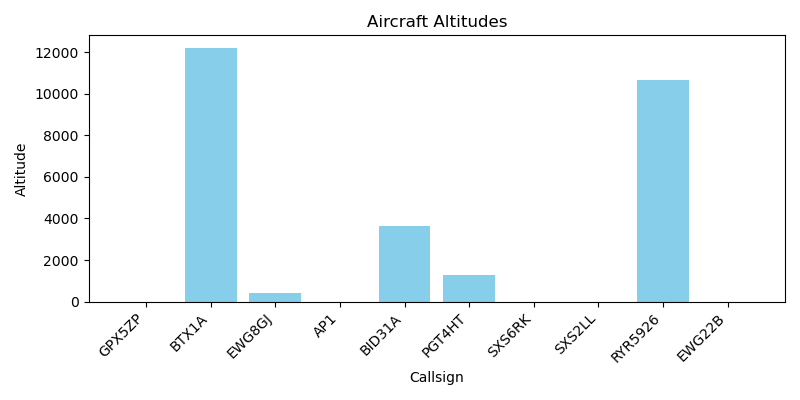
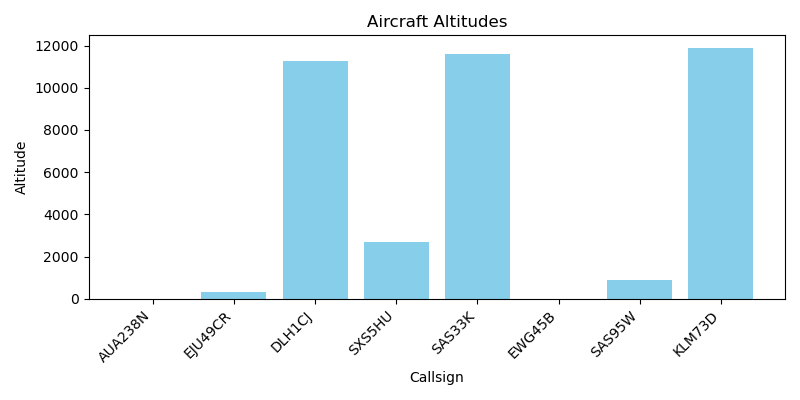
added the bookmark feuture to the app, allowing users to save airports of interest and view them in a dedicated section. This involved updating the database schema to include a timestamp for when each airport was saved, as well as creating new routes and templates to manage and display the saved air

diff --git a/aircraft_explorer/templates/control.html b/aircraft_explorer/templates/control.html
@@ -1,0 +1,133 @@
+<!DOCTYPE html>
+<html>
+<head>
+    <title>Control Panel - Aircraft Explorer</title>
+    <link href="https://cdn.jsdelivr.net/npm/bootstrap@5.3.0/dist/css/bootstrap.min.css" rel="stylesheet">
+    <link rel="stylesheet" href="/static/style.css">
+    <meta name="viewport" content="width=device-width, initial-scale=1.0">
+</head>
+<body class="container mt-4">
+
+    <div class="d-flex justify-content-between align-items-center mb-4">
+        <h1>🎛 Control Panel</h1>
+        <div>
+            <a href="/" class="btn btn-primary">New Search</a>
+            <a href="/history" class="btn btn-outline-secondary ms-2">History</a>
+        </div>
+    </div>
+
+    <!-- ========= BOOKMARKED AIRPORTS ========= -->
+    <div class="card mb-4">
+        <div class="card-header"> Bookmarked Airports</div>
+        <div class="card-body">
+            {% if bookmarked %}
+                <div class="table-responsive">
+                    <table class="table table-sm table-striped">
+                        <thead>
+                            <tr>
+                                <th>Airport Name</th>
+                                <th>ICAO</th>
+                                <th>Latitude</th>
+                                <th>Longitude</th>
+                                <th>Saved Time</th>
+                                <th>Action</th>
+                            </tr>
+                        </thead>
+                        <tbody>
+                            {% for apt in bookmarked %}
+                            <tr>
+                                <td>{{ apt.airport_name }}</td>
+                                <td>{{ apt.icao }}</td>
+                                <td>{{ apt.latitude }}</td>
+                                <td>{{ apt.longitude }}</td>
+                                <td>{{ apt.saved_time[:19] if apt.saved_time else 'N/A' }}</td>
+                                <td>
+                                    <a href="/delete_bookmark/{{ apt.id }}" class="btn btn-danger btn-sm" onclick="return confirm('Remove this bookmark?')">Delete</a>
+                                </td>
+                            </tr>
+                            {% endfor %}
+                        </tbody>
+                    </table>
+                </div>
+            {% else %}
+                <p class="text-muted mb-0">No bookmarked airports yet. Search for a city and click "Bookmark" next to an airport.</p>
+            {% endif %}
+        </div>
+    </div>
+
+    <!-- ========= RECENT AIRCRAFT SNAPSHOTS ========= -->
+    <div class="card mb-4">
+        <div class="card-header"> Recent Aircraft Snapshots</div>
+        <div class="card-body">
+            {% if snapshots %}
+                <div class="table-responsive">
+                    <table class="table table-sm table-striped">
+                        <thead>
+                            <tr>
+                                <th>Timestamp</th>
+                                <th>Callsign</th>
+                                <th>Altitude (m)</th>
+                                <th>Velocity (m/s)</th>
+                            </tr>
+                        </thead>
+                        <tbody>
+                            {% for snap in snapshots[:20] %}
+                            <tr>
+                                <td>{{ snap.timestamp[:19] if snap.timestamp else 'N/A' }}</td>
+                                <td>{{ snap.callsign }}</td>
+                                <td>{{ snap.altitude if snap.altitude else 'N/A' }}</td>
+                                <td>{{ snap.velocity if snap.velocity else 'N/A' }}</td>
+                            </tr>
+                            {% endfor %}
+                        </tbody>
+                    </table>
+                    {% if snapshots|length > 20 %}
+                        <p class="text-muted small">Showing 20 of {{ snapshots|length }} snapshots.</p>
+                    {% endif %}
+                </div>
+            {% else %}
+                <p class="text-muted mb-0">No snapshots yet. Perform a search to capture live aircraft data.</p>
+            {% endif %}
+        </div>
+    </div>
+
+    <!-- ========= TRAFFIC COMPARISON ========= -->
+    <div class="card mb-4">
+        <div class="card-header"> Compare Traffic (Current vs Past)</div>
+        <div class="card-body">
+            <form method="POST" action="/compare">
+                <div class="mb-3">
+                    <label for="previous_timestamp" class="form-label">Select a previous snapshot timestamp:</label>
+                    <select name="previous_timestamp" id="previous_timestamp" class="form-select" required>
+                        <option value="" disabled selected>-- Choose a timestamp --</option>
+                        {% for ts in timestamps %}
+                        <option value="{{ ts }}">{{ ts }}</option>
+                        {% endfor %}
+                    </select>
+                </div>
+                <button type="submit" class="btn btn-warning">Compare with current traffic</button>
+            </form>
+
+            {% if comparison %}
+                <div class="alert alert-info mt-4">
+                    <h5 class="alert-heading">Comparison Results</h5>
+                    <ul class="mb-0">
+                        <li><strong>Current aircraft count:</strong> {{ comparison.current_count }}</li>
+                        <li><strong>Previous count ({{ comparison.previous_timestamp[:19] }}):</strong> {{ comparison.previous_count }}</li>
+                        <li><strong>Aircraft present in both:</strong> {{ comparison.common_count }}</li>
+                        <li><strong>New aircraft (only now):</strong> {{ comparison.new|join(', ') if comparison.new else 'none' }}</li>
+                        <li><strong>Disappeared (only then):</strong> {{ comparison.disappeared|join(', ') if comparison.disappeared else 'none' }}</li>
+                    </ul>
+                </div>
+            {% elif request.method == 'POST' %}
+                <div class="alert alert-warning mt-3">Comparison not available – please perform a search first to have current aircraft data.</div>
+            {% endif %}
+        </div>
+    </div>
+
+    <div class="text-center mt-3">
+        <a href="/" class="btn btn-secondary">← Back to Search</a>
+    </div>
+
+</body>
+</html>

diff --git a/aircraft_explorer/templates/index.html b/aircraft_explorer/templates/index.html
@@ -42,6 +42,44 @@
 
     {% endif %}
 
+    {% if nearby %}
+
+        <h2 class="mt-4">Nearby Airports</h2>
+        <div class="table-responsive">
+            <table class="table table-sm table-striped">
+                <thead>
+                    <tr>
+                        <th>Name</th>
+                        <th>ICAO</th>
+                        <th>Latitude</th>
+                        <th>Longitude</th>
+                        <th>Action</th>
+                    </tr>
+                </thead>
+                <tbody>
+                    {% for airport in nearby %}
+                    <tr>
+                        <td>{{ airport.name }}</td>
+                        <td>{{ airport.ident }}</td>
+                        <td>{{ airport.latitude_deg }}</td>
+                        <td>{{ airport.longitude_deg }}</td>
+                        <td>
+                            <form action="/bookmark" method="POST" class="d-inline">
+                                <input type="hidden" name="airport_name" value="{{ airport.name }}">
+                                <input type="hidden" name="icao" value="{{ airport.ident }}">
+                                <input type="hidden" name="latitude" value="{{ airport.latitude_deg }}">
+                                <input type="hidden" name="longitude" value="{{ airport.longitude_deg }}">
+                                <button type="submit" class="btn btn-sm btn-outline-primary">Bookmark</button>
+                            </form>
+                        </td>
+                    </tr>
+                    {% endfor %}
+                </tbody>
+            </table>
+        </div>
+
+    {% endif %}
+
     {% if aircraft_data %}
 
         <h2 class="mt-4">Aircraft</h2>

diff --git a/aircraft_explorer/app.py b/aircraft_explorer/app.py
@@ -1,7 +1,8 @@
+import os
 import matplotlib
 matplotlib.use('Agg')  # for headless environments
 
-from flask import Flask, render_template, request, redirect, url_for
+from flask import Flask, render_template, request, redirect, url_for, session
 from apis import geocode, load_airports, find_nearest_airports, get_live_aircraft
 from control_panel import (
     save_search, get_searches, delete_search,
@@ -13,6 +14,7 @@ from charts import altitude_chart
 import db
 
 app = Flask(__name__)
+app.secret_key = os.environ.get('SECRET_KEY', 'dev_secret_key')
 db.create_tables()  # ensure tables exist
 
 @app.route('/')
@@ -41,6 +43,9 @@ def search():
     max_lon = lon + bbox
     aircraft = get_live_aircraft(min_lat, min_lon, max_lat, max_lon)
 
+    # Save the current aircraft in session for comparison later
+    session['current_aircraft'] = aircraft
+
     # Save snapshot for later comparison
     save_snapshots(aircraft)
 
@@ -54,7 +59,18 @@ def search():
                            map_html=map_html,
                            chart=chart_path,
                            aircraft_data=aircraft,
+                           nearby=nearby,
                            nearby_count=len(nearby))
+
+@app.route('/bookmark', methods=['POST'])
+def bookmark():
+    airport_name = request.form.get('airport_name')
+    icao = request.form.get('icao')
+    latitude = request.form.get('latitude')
+    longitude = request.form.get('longitude')
+    if airport_name and icao and latitude and longitude:
+        save_bookmark(airport_name, icao, latitude, longitude)
+    return redirect(url_for('control_panel'))
 
 @app.route('/history')
 def history():
@@ -84,6 +100,24 @@ def compare():
     if not previous_ts:
         return redirect(url_for('control_panel'))
     
-    return "Please perform a search first, then use comparison. <a href='/'>Go to search</a>"
+    # Retrieve current aircraft from session (set during search)
+    current_aircraft = session.get('current_aircraft', [])
+    if not current_aircraft:
+        return render_template('control.html', 
+                               bookmarked=get_bookmarks(),
+                               snapshots=get_snapshots(20),
+                               timestamps=get_distinct_timestamps(),
+                               comparison=None,
+                               error="Please perform a search first to get current aircraft data.")
+    
+    # Perform comparison
+    comp = compare_traffic(current_aircraft, previous_ts)
+    
+    # Re-fetch data for the control panel to display again
+    return render_template('control.html',
+                           bookmarked=get_bookmarks(),
+                           snapshots=get_snapshots(20),
+                           timestamps=get_distinct_timestamps(),
+                           comparison=comp)
 if __name__ == '__main__':
     app.run(debug=True, port=5001)

diff --git a/aircraft_explorer/db.py b/aircraft_explorer/db.py
@@ -30,9 +30,16 @@ def create_tables():
         airport_name TEXT,
         icao TEXT,
         latitude REAL,
-        longitude REAL
+        longitude REAL,
+        saved_time DATETIME DEFAULT CURRENT_TIMESTAMP
     )
     """)
+
+    # Ensure older DBs gain the saved_time column if it was added later
+    cursor.execute("PRAGMA table_info(saved_airports)")
+    columns = [row[1] for row in cursor.fetchall()]
+    if 'saved_time' not in columns:
+        cursor.execute("ALTER TABLE saved_airports ADD COLUMN saved_time DATETIME DEFAULT CURRENT_TIMESTAMP")
 
     # Aircraft snapshots
     cursor.execute("""
